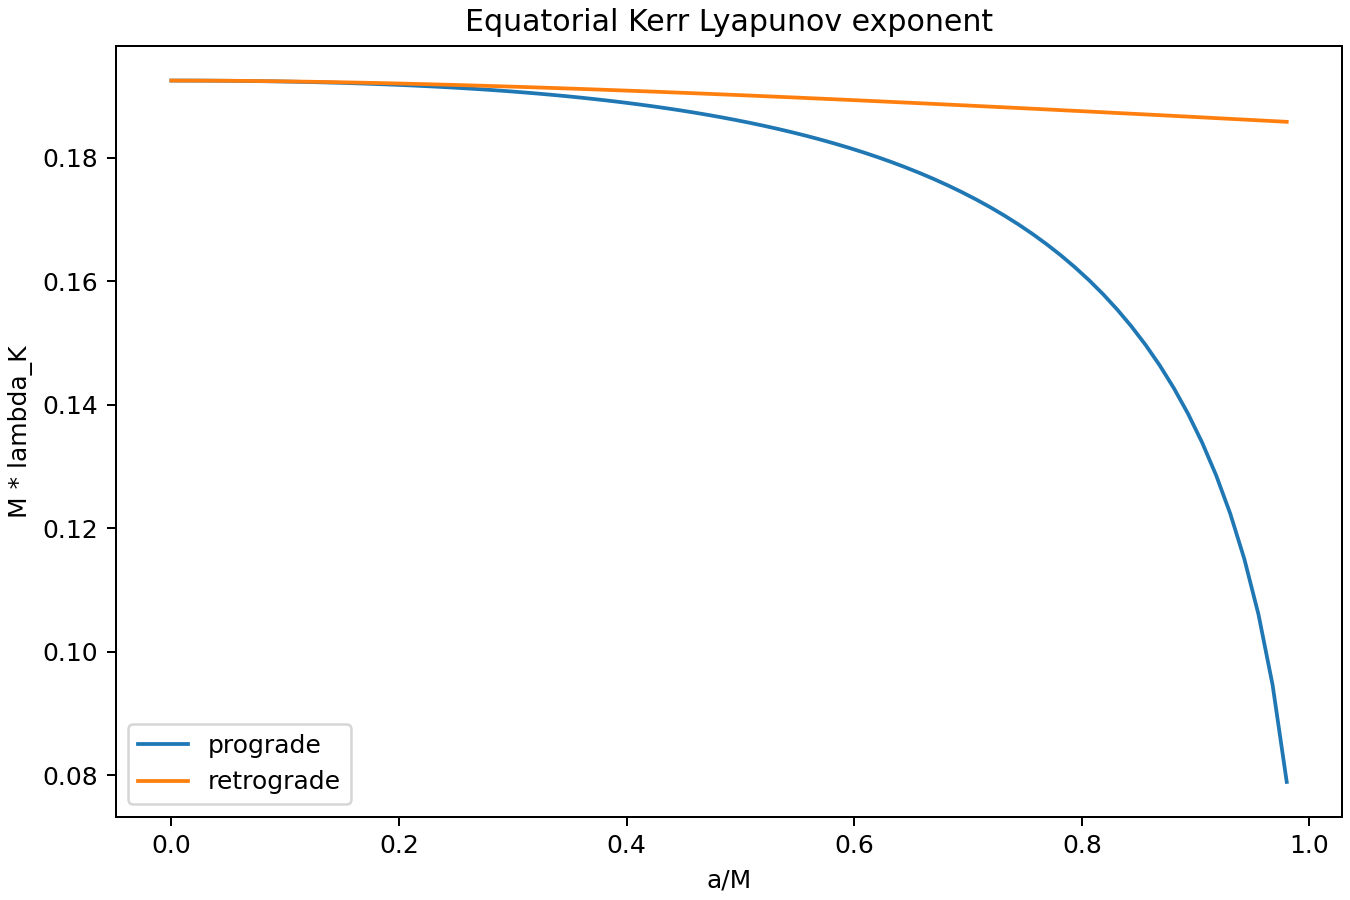
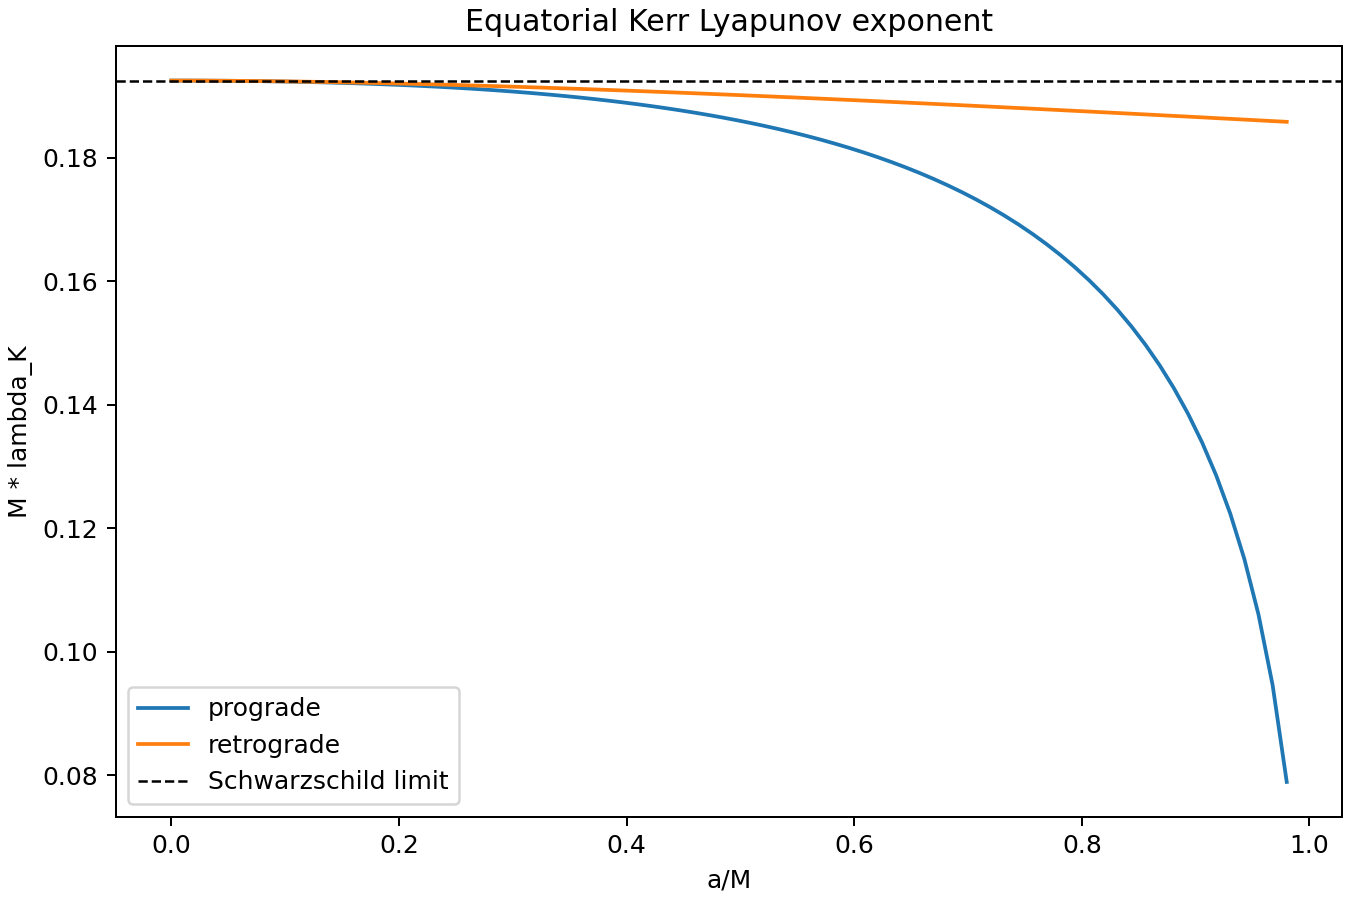
Clarify m-mode Kerr residual baseline

Changed region(s): [[0.0933, 0.7467, 0.3422, 0.9022]]

diff --git a/rotating_kerr_residual_diagnostics.py b/rotating_kerr_residual_diagnostics.py
@@ -7,6 +7,18 @@ import numpy as np
 import pandas as pd
 
 
+"""Residual diagnostics relative to an equatorial Kerr photon-ring baseline.
+
+The rotating eikonal baseline uses the azimuthal phase number m:
+
+    omega_QNM = m*Omega_phi - i*(n + 1/2)*lambda.
+
+The geodesic photon-ring frequency Omega_phi is signed by the branch
+convention. Residuals are computed from positive QNM frequency magnitudes,
+using Re(omega_QNM)/abs(m) and abs(Omega_phi).
+"""
+
+
 # Demo/default inputs. Units use G = c = 1.
 M = 1.0
 a = 0.7
@@ -120,7 +132,7 @@ def extract_equatorial_kerr_observables(
     The equatorial Kerr eikonal relation uses the azimuthal number m:
     omega_QNM = m*Omega_phi - i*(n+1/2)*lambda.
     For residual diagnostics we compare positive observed QNM frequency
-    magnitudes, so Omega_obs_abs = Re(omega_qnm)/abs(m).
+    magnitudes, so Omega_obs = Re(omega_qnm)/abs(m).
     """
 
     if m == 0:
@@ -129,11 +141,11 @@ def extract_equatorial_kerr_observables(
         )
     if n <= -0.5:
         raise ValueError("n must satisfy n + 1/2 > 0.")
-    Omega_obs_abs = np.real(omega_qnm) / abs(m)
-    if Omega_obs_abs < 0.0:
+    Omega_obs = np.real(omega_qnm) / abs(m)
+    if Omega_obs < 0.0:
         raise ValueError("Expected positive Re(omega_qnm) for residual diagnostics.")
     lambda_obs = -np.imag(omega_qnm) / (n + 0.5)
-    return Omega_obs_abs, lambda_obs
+    return Omega_obs, lambda_obs
 
 
 def compute_kerr_residuals(
@@ -146,20 +158,20 @@ def compute_kerr_residuals(
 ) -> dict[str, float]:
     validate_branch(branch)
     validate_azimuthal_number(m, branch)
-    Omega_obs_abs, lambda_obs = extract_equatorial_kerr_observables(omega_qnm, m, n)
+    Omega_obs, lambda_obs = extract_equatorial_kerr_observables(omega_qnm, m, n)
     r_ph = kerr_photon_radius(M, a, branch)
-    Omega_phi = kerr_photon_frequency_signed(M, a, branch)
-    Omega_K_abs = abs(Omega_phi)
-    lambda_K = kerr_lyapunov_exponent(M, a, branch)
+    Omega_Kerr_signed = kerr_photon_frequency_signed(M, a, branch)
+    Omega_Kerr_abs = abs(Omega_Kerr_signed)
+    lambda_Kerr = kerr_lyapunov_exponent(M, a, branch)
     return {
-        "Omega_obs_abs": Omega_obs_abs,
+        "Omega_obs": Omega_obs,
         "lambda_obs": lambda_obs,
         "r_ph": r_ph,
-        "Omega_phi_signed": Omega_phi,
-        "Omega_K_abs": Omega_K_abs,
-        "lambda_K": lambda_K,
-        "A_Kerr": Omega_obs_abs / Omega_K_abs - 1.0,
-        "B_Kerr": lambda_obs / lambda_K - 1.0,
+        "Omega_Kerr_signed": Omega_Kerr_signed,
+        "Omega_Kerr_abs": Omega_Kerr_abs,
+        "lambda_Kerr": lambda_Kerr,
+        "A_Kerr": Omega_obs / Omega_Kerr_abs - 1.0,
+        "B_Kerr": lambda_obs / lambda_Kerr - 1.0,
     }
 
 
@@ -174,12 +186,12 @@ def synthetic_residual_demo(
     B_Kerr_injected: float = -0.02,
 ) -> pd.DataFrame:
     validate_azimuthal_number(m, branch)
-    Omega_phi = kerr_photon_frequency_signed(M, a, branch)
-    Omega_K_abs = abs(Omega_phi)
-    lambda_K = kerr_lyapunov_exponent(M, a, branch)
-    Omega_obs_abs = Omega_K_abs * (1.0 + A_Kerr_injected)
-    lambda_obs = lambda_K * (1.0 + B_Kerr_injected)
-    omega_qnm = abs(m) * Omega_obs_abs - 1j * (n + 0.5) * lambda_obs
+    Omega_Kerr_signed = kerr_photon_frequency_signed(M, a, branch)
+    Omega_Kerr_abs = abs(Omega_Kerr_signed)
+    lambda_Kerr = kerr_lyapunov_exponent(M, a, branch)
+    Omega_obs = Omega_Kerr_abs * (1.0 + A_Kerr_injected)
+    lambda_obs = lambda_Kerr * (1.0 + B_Kerr_injected)
+    omega_qnm = abs(m) * Omega_obs - 1j * (n + 0.5) * lambda_obs
     recovered = compute_kerr_residuals(omega_qnm, M, a, m, n, branch)
     schwarzschild_expected = 1.0 / (3.0 * np.sqrt(3.0) * M)
     schwarzschild_lambda = kerr_lyapunov_exponent(M, 0.0, branch)
@@ -196,9 +208,9 @@ def synthetic_residual_demo(
                 "branch": branch,
                 "omega_re": omega_qnm.real,
                 "omega_im": omega_qnm.imag,
-                "Omega_phi_signed": Omega_phi,
-                "Omega_K_abs": Omega_K_abs,
-                "Omega_obs_abs": recovered["Omega_obs_abs"],
+                "Omega_Kerr_signed": Omega_Kerr_signed,
+                "Omega_Kerr_abs": Omega_Kerr_abs,
+                "Omega_obs": recovered["Omega_obs"],
                 "A_Kerr_injected": A_Kerr_injected,
                 "B_Kerr_injected": B_Kerr_injected,
                 "A_Kerr_recovered": recovered["A_Kerr"],
@@ -206,7 +218,7 @@ def synthetic_residual_demo(
                 "A_abs_error": abs(recovered["A_Kerr"] - A_Kerr_injected),
                 "B_abs_error": abs(recovered["B_Kerr"] - B_Kerr_injected),
                 "r_ph": recovered["r_ph"],
-                "lambda_K": recovered["lambda_K"],
+                "lambda_Kerr": recovered["lambda_Kerr"],
                 "schwarzschild_lambda_expected": schwarzschild_expected,
                 "schwarzschild_lambda_numeric": schwarzschild_lambda,
                 "schwarzschild_lambda_abs_error": abs(
@@ -238,11 +250,42 @@ def scan_kerr_baselines(M: float) -> pd.DataFrame:
     return pd.DataFrame(rows)
 
 
-def plot_branch_scan(scan: pd.DataFrame, y_column: str, ylabel: str, title: str, filename: Path) -> None:
+def schwarzschild_limit_check(M: float) -> pd.DataFrame:
+    expected = 1.0 / (3.0 * np.sqrt(3.0))
+    lambda_numeric = M * kerr_lyapunov_exponent(M, 0.0, branch=1)
+    return pd.DataFrame(
+        [
+            {
+                "M": M,
+                "a": 0.0,
+                "a_over_M": 0.0,
+                "M_lambda_Kerr_numeric": lambda_numeric,
+                "M_lambda_Kerr_expected": expected,
+                "abs_error": abs(lambda_numeric - expected),
+            }
+        ]
+    )
+
+
+def plot_branch_scan(
+    scan: pd.DataFrame,
+    y_column: str,
+    ylabel: str,
+    title: str,
+    filename: Path,
+) -> None:
     fig, ax = plt.subplots(figsize=(7.5, 5), constrained_layout=True)
     for label, group in scan.groupby("branch_label"):
         ordered = group.sort_values("a_over_M")
         ax.plot(ordered["a_over_M"], ordered[y_column], label=label)
+    if y_column == "M_lambda_K":
+        ax.axhline(
+            1.0 / (3.0 * np.sqrt(3.0)),
+            color="black",
+            linestyle="--",
+            linewidth=1.0,
+            label="Schwarzschild limit",
+        )
     ax.set_xlabel("a/M")
     ax.set_ylabel(ylabel)
     ax.set_title(title)
@@ -276,6 +319,8 @@ def main() -> None:
 
     demo = synthetic_residual_demo(M, a, ell, m, n, branch)
     demo.to_csv(out_dir / "kerr_residual_demo.csv", index=False)
+    sanity = schwarzschild_limit_check(M)
+    sanity.to_csv(out_dir / "schwarzschild_limit_check.csv", index=False)
 
     scan = scan_kerr_baselines(M)
     plot_branch_scan(
@@ -305,6 +350,9 @@ def main() -> None:
     print(f"  {out_dir}")
     print()
     print(demo.to_string(index=False))
+    print()
+    print("Schwarzschild-limit check:")
+    print(sanity.to_string(index=False))
 
 
 if __name__ == "__main__":

diff --git a/README.md b/README.md
@@ -151,6 +151,7 @@ outputs/rotating_kerr_residuals/
 Rotating Kerr residual outputs:
 
 - `kerr_residual_demo.csv`
+- `schwarzschild_limit_check.csv`
 - `kerr_photon_radius_vs_spin.png`
 - `kerr_photon_frequency_vs_spin.png`
 - `kerr_lyapunov_vs_spin.png`
@@ -209,9 +210,9 @@ reference would mix spin effects with any possible effective-matter or
 hair-like residual.
 
 This repository therefore includes a rotating Kerr residual diagnostic module.
-It computes the equatorial Kerr photon-ring radius, orbital frequency, and
-Lyapunov exponent, then compares an input eikonal QNM frequency with the Kerr
-baseline.
+It computes the equatorial Kerr photon-ring radius, signed orbital frequency,
+and Lyapunov exponent, then compares an input eikonal QNM frequency with the
+Kerr baseline.
 
 For the equatorial Kerr baseline, the relevant phase number is the azimuthal
 number `m`, not only `ell`:
@@ -220,26 +221,48 @@ number `m`, not only `ell`:
 omega_QNM = m * Omega_phi - i * (n + 1/2) * lambda
 ```
 
-The geodesic frequency `Omega_phi` is signed: prograde branches are positive
-and retrograde branches are negative in this convention. For residual
-diagnostics, the code compares positive QNM frequency magnitudes:
+Here `ell` can still be stored as mode metadata, but it is not used to extract
+the rotating equatorial orbital frequency. The extraction uses:
 
 ```text
-Omega_obs_abs = Re(omega_QNM) / abs(m)
-Omega_Kerr_abs = abs(Omega_phi)
+Omega_obs = Re(omega_QNM) / abs(m)
+lambda_obs = -Im(omega_QNM) / (n + 0.5)
+```
+
+The geodesic frequency `Omega_phi`, reported in the code as
+`Omega_Kerr_signed`, is signed by branch convention: prograde branches are
+positive and retrograde branches are negative. Real QNM frequencies are usually
+reported with positive real part, so the residual diagnostic compares positive
+frequency magnitudes:
+
+```text
+Omega_Kerr_abs = abs(Omega_Kerr_signed)
+A_Kerr = Omega_obs/Omega_Kerr_abs - 1
+B_Kerr = lambda_obs/lambda_Kerr - 1
 ```
 
 The demo uses `M = 1`, `a = 0.7`, `ell = 2`, `m = 2`, `n = 0`, and the
 prograde branch. In this convention, prograde uses `branch = +1` with `m > 0`,
 while retrograde uses `branch = -1` with `m < 0`.
 
-The resulting quantities are:
+The synthetic demo injects:
 
-- `A_Kerr = Omega_obs_abs/Omega_Kerr_abs - 1`
-- `B_Kerr = lambda/lambda_Kerr - 1`
+```text
+A_Kerr = 0.01
+B_Kerr = -0.02
+```
 
-These should be interpreted as residual shifts relative to Kerr, not yet as
-direct matter diagnostics.
+It constructs the positive-real-frequency synthetic QNM with `abs(m)`, recovers
+the residuals, and saves the injected-versus-recovered comparison plot. These
+residuals should be interpreted as shifts relative to Kerr, not yet as direct
+matter diagnostics.
+
+The module also saves a Schwarzschild-limit sanity check. At `a = 0`, it
+verifies:
+
+```text
+M * lambda_Kerr ~= 1/(3*sqrt(3)) ~= 0.19245
+```
 
 The rotating module is a baseline-removal step. A physical rotating
 matter/hair interpretation requires additional perturbative formulas for the